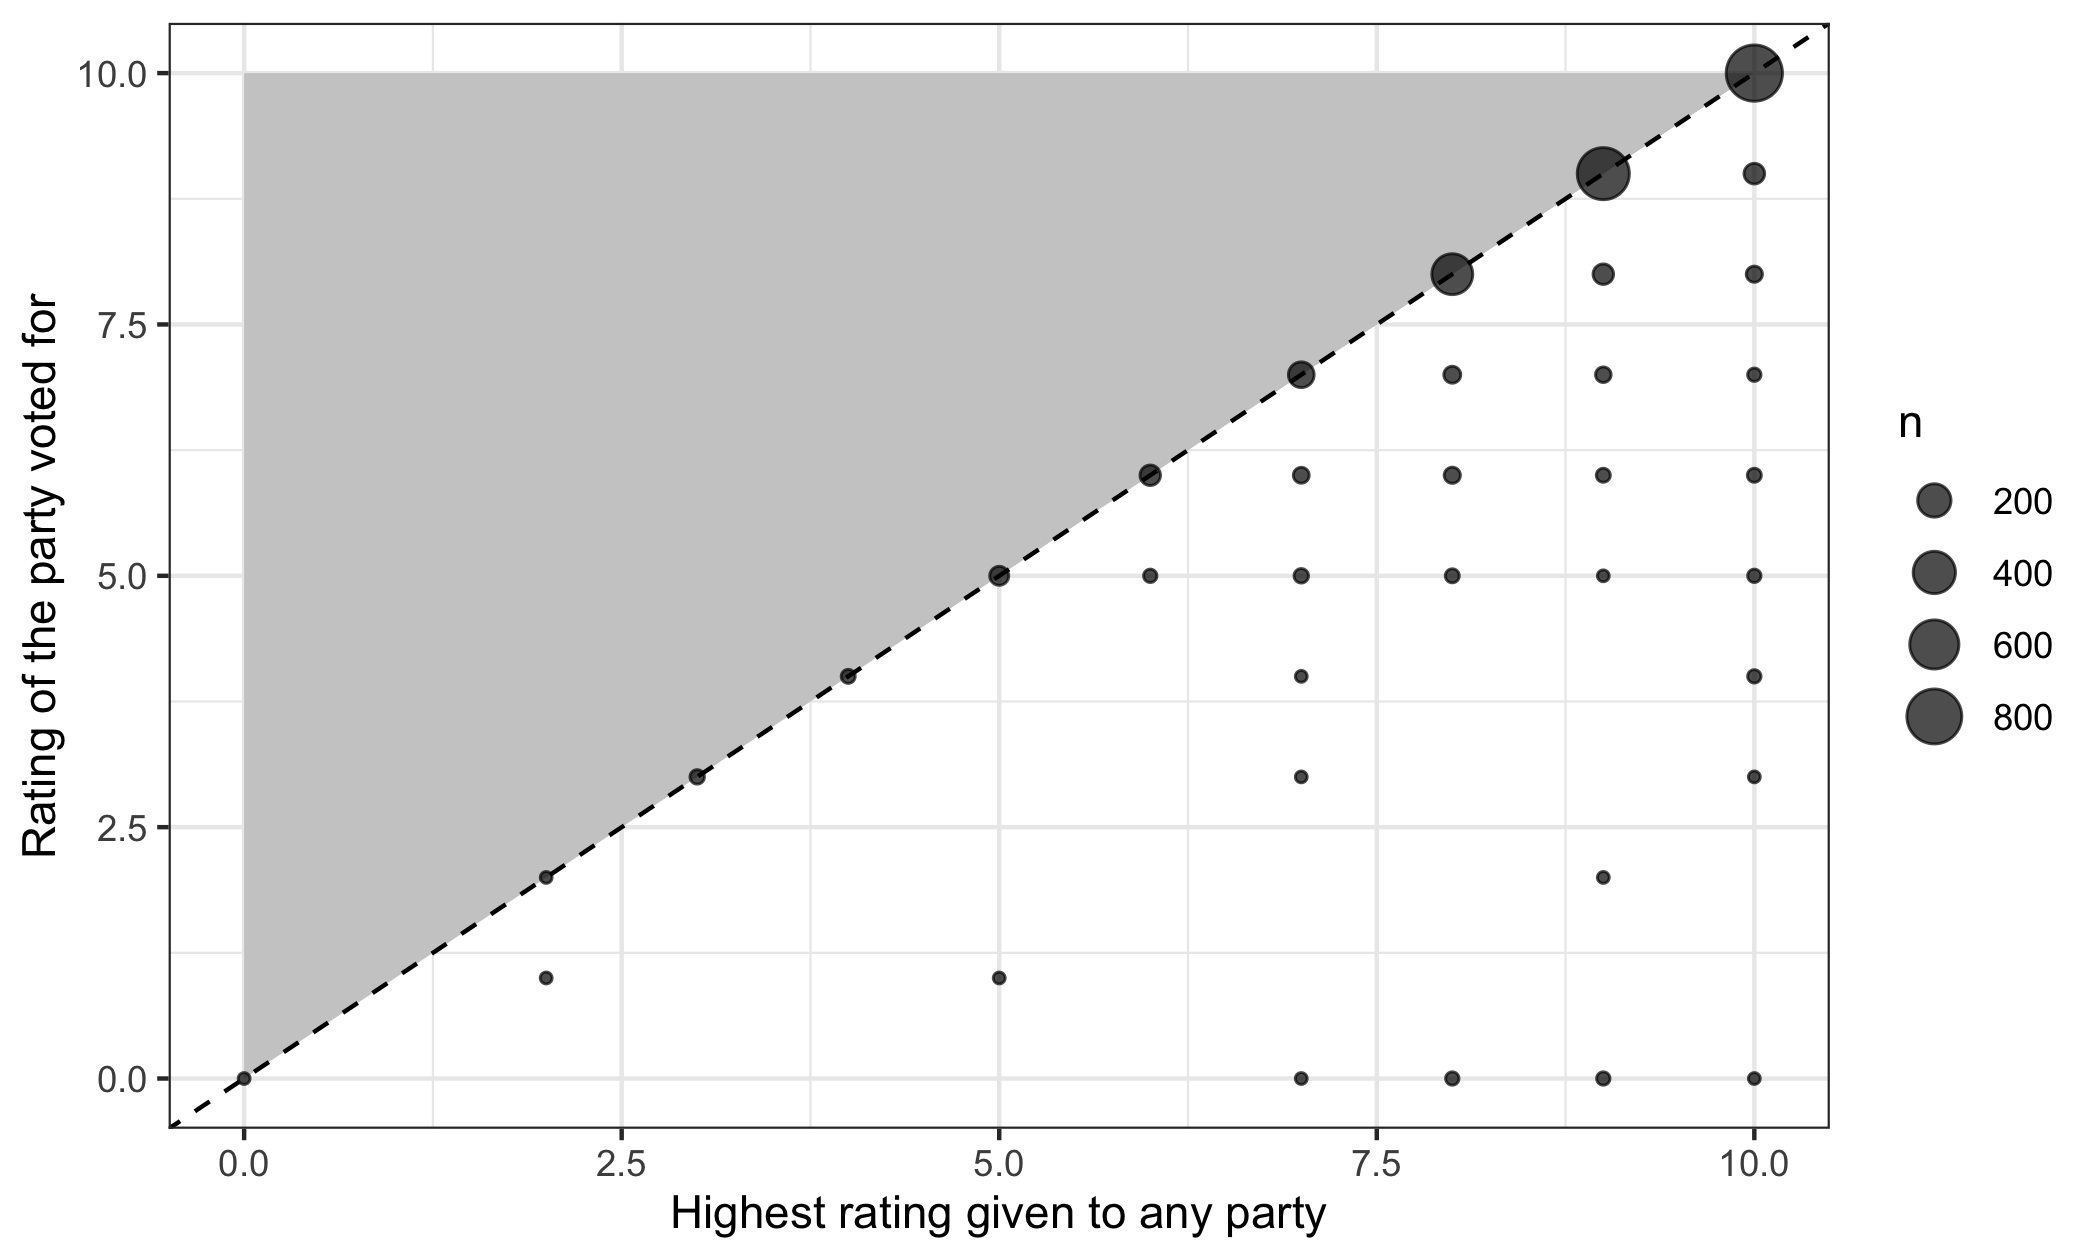
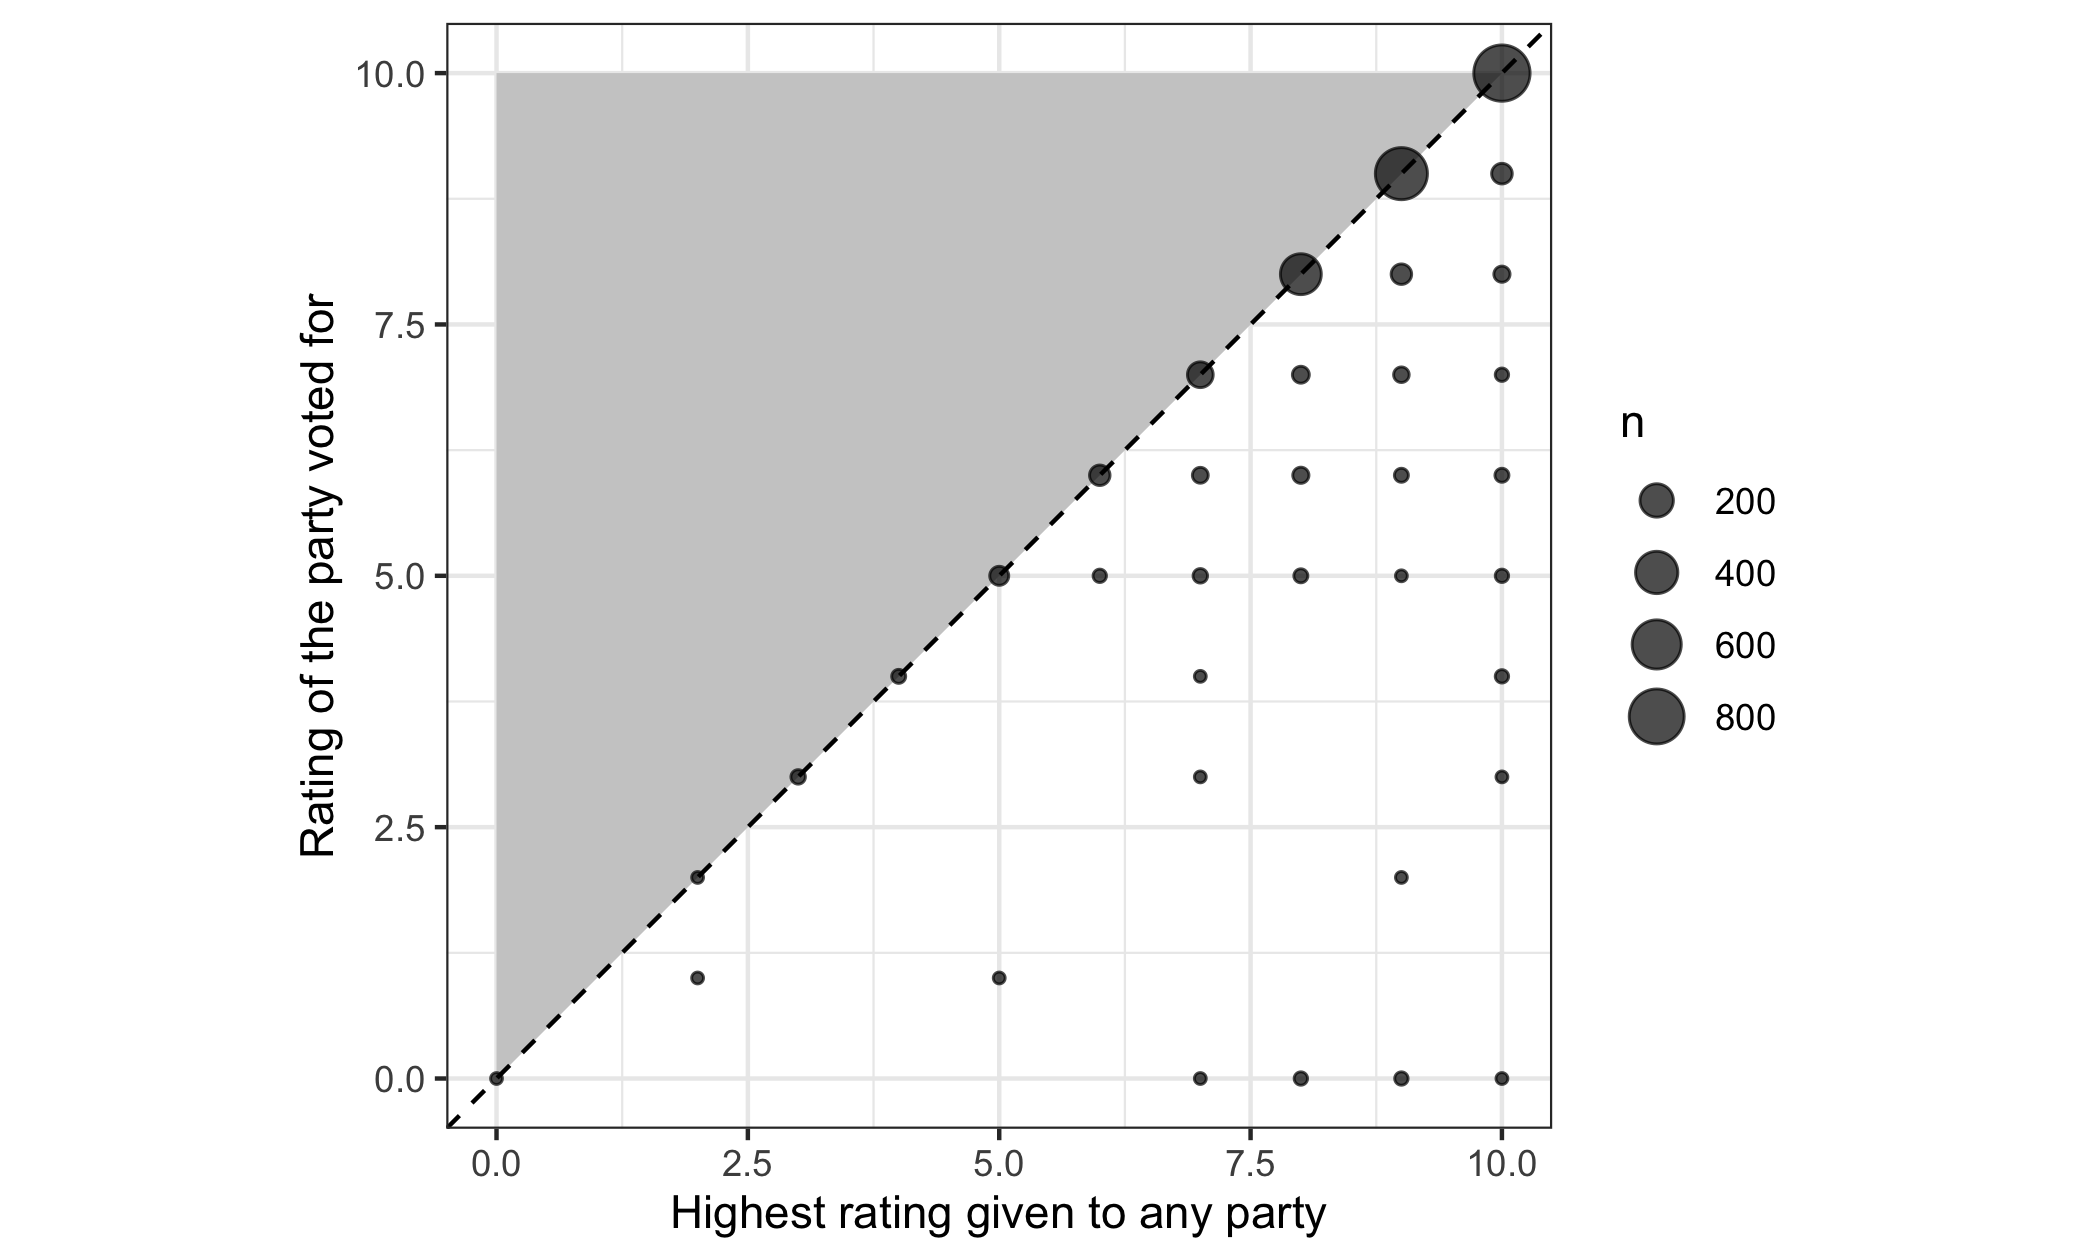
Fix the aspect ratio wherever both axes carry the same scale
The four session 5 plots with a percentage or a 0-10 rating on both axes
now use coord_fixed() instead of coord_cartesian(), so one unit is the
same physical length going up as going across. The dashed line of
equality means "equal" only at 45 degrees; a plot stretched to fill the
page tilts it and the eye reads a gap that is not there. The GDP against
life expectancy plot keeps coord_cartesian(): dollars and years are not
the same scale and there is no such line to protect. The chapter says
which to use when, the deck and the swirl lesson follow.

diff --git a/docs/05-logical-models.html b/docs/05-logical-models.html
@@ -293,7 +293,7 @@ pre > code.sourceCode > span > a:first-child::before { text-decoration: underlin
 <span id="cb1-4"><a href="#cb1-4" aria-hidden="true" tabindex="-1"></a>world <span class="ot">&lt;-</span> readr<span class="sc">::</span><span class="fu">read_csv</span>(<span class="st">"data/world.csv"</span>, <span class="at">show_col_types =</span> <span class="cn">FALSE</span>)</span></code></pre></div><button title="Copy to Clipboard" class="code-copy-button"><i class="bi"></i></button></div>
 </div>
 <p><code>world</code> holds 119 countries with a handful of indicators from the World Bank. We use it because its variables have real limits.</p>
-<p>The plots below use <code>ggplot2</code>, which was last week’s session, so the code should be readable. Everything here is the same handful of pieces: <code>ggplot()</code> and <code>aes()</code> to say what goes where, a <code>geom_</code> to draw it, <code>coord_cartesian()</code> to fix the axes, <code>labs()</code> for the labels.</p>
+<p>The plots below use <code>ggplot2</code>, which was last week’s session, so the code should be readable. Everything here is the same handful of pieces: <code>ggplot()</code> and <code>aes()</code> to say what goes where, a <code>geom_</code> to draw it, <code>coord_fixed()</code> or <code>coord_cartesian()</code> to fix the axes, <code>labs()</code> for the labels.</p>
 <section id="what-you-know-before-you-look" class="level2" data-number="5.1">
 <h2 data-number="5.1" class="anchored" data-anchor-id="what-you-know-before-you-look"><span class="header-section-number">5.1</span> What you know before you look</h2>
 <p>Take a concrete question. <strong>Across countries, how is the literacy rate among women related to the literacy rate among men?</strong></p>
@@ -316,7 +316,7 @@ pre > code.sourceCode > span > a:first-child::before { text-decoration: underlin
 <span id="cb2-10"><a href="#cb2-10" aria-hidden="true" tabindex="-1"></a>    <span class="at">y =</span> <span class="fu">c</span>(<span class="dv">0</span>, <span class="dv">100</span>),</span>
 <span id="cb2-11"><a href="#cb2-11" aria-hidden="true" tabindex="-1"></a>    <span class="at">size =</span> <span class="dv">3</span></span>
 <span id="cb2-12"><a href="#cb2-12" aria-hidden="true" tabindex="-1"></a>  ) <span class="sc">+</span></span>
-<span id="cb2-13"><a href="#cb2-13" aria-hidden="true" tabindex="-1"></a>  <span class="fu">coord_cartesian</span>(<span class="at">xlim =</span> <span class="fu">c</span>(<span class="dv">0</span>, <span class="dv">100</span>), <span class="at">ylim =</span> <span class="fu">c</span>(<span class="dv">0</span>, <span class="dv">100</span>)) <span class="sc">+</span></span>
+<span id="cb2-13"><a href="#cb2-13" aria-hidden="true" tabindex="-1"></a>  <span class="fu">coord_fixed</span>(<span class="at">xlim =</span> <span class="fu">c</span>(<span class="dv">0</span>, <span class="dv">100</span>), <span class="at">ylim =</span> <span class="fu">c</span>(<span class="dv">0</span>, <span class="dv">100</span>)) <span class="sc">+</span></span>
 <span id="cb2-14"><a href="#cb2-14" aria-hidden="true" tabindex="-1"></a>  <span class="fu">labs</span>(</span>
 <span id="cb2-15"><a href="#cb2-15" aria-hidden="true" tabindex="-1"></a>    <span class="at">x =</span> <span class="st">"Male literacy rate (%)"</span>,</span>
 <span id="cb2-16"><a href="#cb2-16" aria-hidden="true" tabindex="-1"></a>    <span class="at">y =</span> <span class="st">"Female literacy rate (%)"</span></span>
@@ -335,7 +335,8 @@ Figure&nbsp;5.1: What is known before the data: the box, the two anchor points, 
 </div>
 </div>
 </div>
-<p><code>geom_abline()</code> draws a straight line from an intercept and a slope; intercept 0 and slope 1 is the diagonal. <code>annotate("point", ...)</code> puts markers at given coordinates without needing a data frame. <code>coord_cartesian()</code> fixes what the axes show: <code>xlim</code> and <code>ylim</code> give the range for each, which here forces the full 0-to-100 square rather than letting the plot shrink to fit.</p>
+<p><code>geom_abline()</code> draws a straight line from an intercept and a slope; intercept 0 and slope 1 is the diagonal. <code>annotate("point", ...)</code> puts markers at given coordinates without needing a data frame.</p>
+<p><code>coord_fixed()</code> does two jobs. Its <code>xlim</code> and <code>ylim</code> arguments give the range each axis shows, which here forces the full 0-to-100 square rather than letting the plot shrink to fit the data. And it makes <strong>one unit the same physical length on both axes</strong> — a percentage point is as long going up as it is going across. That matters whenever the two axes carry the same scale. The dashed line means “equal” only if it runs at 45 degrees; let ggplot stretch the plot to fill the page and the same line of equality can lean steep or flat, and the eye reads a gap that is not there. When the two axes carry different scales there is no such line to protect, and <code>coord_cartesian()</code>, which sets the limits without fixing the ratio, is the right tool — it appears further down.</p>
 <p>Now the data.</p>
 <div class="cell">
 <div class="code-copy-outer-scaffold"><div class="sourceCode cell-code" id="cb3"><pre class="sourceCode r code-with-copy"><code class="sourceCode r"><span id="cb3-1"><a href="#cb3-1" aria-hidden="true" tabindex="-1"></a><span class="fu">ggplot</span>(world, <span class="fu">aes</span>(<span class="at">x =</span> lit_m, <span class="at">y =</span> lit_f)) <span class="sc">+</span></span>
@@ -345,7 +346,7 @@ Figure&nbsp;5.1: What is known before the data: the box, the two anchor points, 
 <span id="cb3-5"><a href="#cb3-5" aria-hidden="true" tabindex="-1"></a>    <span class="at">slope =</span> <span class="dv">1</span>,</span>
 <span id="cb3-6"><a href="#cb3-6" aria-hidden="true" tabindex="-1"></a>    <span class="at">linetype =</span> <span class="st">"dashed"</span></span>
 <span id="cb3-7"><a href="#cb3-7" aria-hidden="true" tabindex="-1"></a>  ) <span class="sc">+</span></span>
-<span id="cb3-8"><a href="#cb3-8" aria-hidden="true" tabindex="-1"></a>  <span class="fu">coord_cartesian</span>(<span class="at">xlim =</span> <span class="fu">c</span>(<span class="dv">0</span>, <span class="dv">100</span>), <span class="at">ylim =</span> <span class="fu">c</span>(<span class="dv">0</span>, <span class="dv">100</span>)) <span class="sc">+</span></span>
+<span id="cb3-8"><a href="#cb3-8" aria-hidden="true" tabindex="-1"></a>  <span class="fu">coord_fixed</span>(<span class="at">xlim =</span> <span class="fu">c</span>(<span class="dv">0</span>, <span class="dv">100</span>), <span class="at">ylim =</span> <span class="fu">c</span>(<span class="dv">0</span>, <span class="dv">100</span>)) <span class="sc">+</span></span>
 <span id="cb3-9"><a href="#cb3-9" aria-hidden="true" tabindex="-1"></a>  <span class="fu">labs</span>(</span>
 <span id="cb3-10"><a href="#cb3-10" aria-hidden="true" tabindex="-1"></a>    <span class="at">x =</span> <span class="st">"Male literacy rate (%)"</span>,</span>
 <span id="cb3-11"><a href="#cb3-11" aria-hidden="true" tabindex="-1"></a>    <span class="at">y =</span> <span class="st">"Female literacy rate (%)"</span></span>
@@ -423,7 +424,7 @@ Figure&nbsp;5.3: Income and life expectancy. The dashed line marks the highest l
 </div>
 </div>
 </div>
-<p><code>geom_hline()</code> draws a horizontal line at a given height on the vertical axis. <code>scale_x_continuous(labels = ...)</code> controls how the numbers on that axis are printed; <code>scales::label_comma()</code> writes them with thousands separators, and without it R writes them as <code>5e+04</code>, which is not something to put in front of a reader.</p>
+<p><code>geom_hline()</code> draws a horizontal line at a given height on the vertical axis. Dollars across and years up are not the same scale, so there is no line of equality to protect and <code>coord_cartesian()</code> is the right choice here: it sets the range shown — only <code>ylim</code> this time, so that the whole 0-to-100 span of the outcome is visible — and leaves the plot free to fill the page. <code>scale_x_continuous(labels = ...)</code> controls how the numbers on that axis are printed; <code>scales::label_comma()</code> writes them with thousands separators, and without it R writes them as <code>5e+04</code>, which is not something to put in front of a reader.</p>
 <p>The shape is there: steep at the left, flat at the right. Doubling income from 2,000 to 4,000 buys a great deal of life expectancy. Doubling it from 60,000 to 120,000 buys almost none.</p>
 <p>Note that the vertical axis runs from 0 rather than starting just below the lowest country. That is deliberate, and it is one of the rules below. Cropping the axis to the range of the data would have made the same points look dramatically more spread out, and the ceiling would have vanished off the top of the plot.</p>
 <div class="discussion">
@@ -479,7 +480,7 @@ Figure&nbsp;5.3: Income and life expectancy. The dashed line marks the highest l
 <span id="cb9-11"><a href="#cb9-11" aria-hidden="true" tabindex="-1"></a>    <span class="at">slope =</span> <span class="dv">1</span>,</span>
 <span id="cb9-12"><a href="#cb9-12" aria-hidden="true" tabindex="-1"></a>    <span class="at">linetype =</span> <span class="st">"dashed"</span></span>
 <span id="cb9-13"><a href="#cb9-13" aria-hidden="true" tabindex="-1"></a>  ) <span class="sc">+</span></span>
-<span id="cb9-14"><a href="#cb9-14" aria-hidden="true" tabindex="-1"></a>  <span class="fu">coord_cartesian</span>(<span class="at">xlim =</span> <span class="fu">c</span>(<span class="dv">0</span>, <span class="dv">10</span>), <span class="at">ylim =</span> <span class="fu">c</span>(<span class="dv">0</span>, <span class="dv">10</span>)) <span class="sc">+</span></span>
+<span id="cb9-14"><a href="#cb9-14" aria-hidden="true" tabindex="-1"></a>  <span class="fu">coord_fixed</span>(<span class="at">xlim =</span> <span class="fu">c</span>(<span class="dv">0</span>, <span class="dv">10</span>), <span class="at">ylim =</span> <span class="fu">c</span>(<span class="dv">0</span>, <span class="dv">10</span>)) <span class="sc">+</span></span>
 <span id="cb9-15"><a href="#cb9-15" aria-hidden="true" tabindex="-1"></a>  <span class="fu">labs</span>(</span>
 <span id="cb9-16"><a href="#cb9-16" aria-hidden="true" tabindex="-1"></a>    <span class="at">x =</span> <span class="st">"Highest rating given to any party"</span>,</span>
 <span id="cb9-17"><a href="#cb9-17" aria-hidden="true" tabindex="-1"></a>    <span class="at">y =</span> <span class="st">"Rating of the party voted for"</span></span>
@@ -550,30 +551,34 @@ Figure&nbsp;5.4: Rating of the party voted for against the respondent’s highes
 <td><code>coord_cartesian(xlim = , ylim = )</code></td>
 </tr>
 <tr class="even">
+<td>Same scale on both axes: one unit the same length on each</td>
+<td><code>coord_fixed(xlim = , ylim = )</code></td>
+</tr>
+<tr class="odd">
 <td>Equal intervals</td>
 <td>the default; do not use a log axis without saying so</td>
 </tr>
-<tr class="odd">
+<tr class="even">
 <td>Human-language axis labels with units</td>
 <td><code>labs(x = , y = )</code></td>
 </tr>
-<tr class="even">
+<tr class="odd">
 <td>Mark the anchor points</td>
 <td><code>annotate("point", x = , y = )</code></td>
 </tr>
-<tr class="odd">
+<tr class="even">
 <td>Shade the forbidden region</td>
 <td><code>annotate("polygon", x = , y = , fill = )</code></td>
 </tr>
-<tr class="even">
+<tr class="odd">
 <td>Draw the equality line</td>
 <td><code>geom_abline(intercept = 0, slope = 1)</code></td>
 </tr>
-<tr class="odd">
+<tr class="even">
 <td>One piece of information per element</td>
 <td>do not map a variable that is already on an axis</td>
 </tr>
-<tr class="even">
+<tr class="odd">
 <td>Nothing that carries no information</td>
 <td><code>theme(legend.position = "none")</code> when the legend is redundant</td>
 </tr>
@@ -596,7 +601,7 @@ Figure&nbsp;5.4: Rating of the party voted for against the respondent’s highes
 <span id="cb12-13"><a href="#cb12-13" aria-hidden="true" tabindex="-1"></a>    <span class="at">slope =</span> <span class="dv">1</span>,</span>
 <span id="cb12-14"><a href="#cb12-14" aria-hidden="true" tabindex="-1"></a>    <span class="at">linetype =</span> <span class="st">"dashed"</span></span>
 <span id="cb12-15"><a href="#cb12-15" aria-hidden="true" tabindex="-1"></a>  ) <span class="sc">+</span></span>
-<span id="cb12-16"><a href="#cb12-16" aria-hidden="true" tabindex="-1"></a>  <span class="fu">coord_cartesian</span>(<span class="at">xlim =</span> <span class="fu">c</span>(<span class="dv">0</span>, <span class="dv">100</span>), <span class="at">ylim =</span> <span class="fu">c</span>(<span class="dv">0</span>, <span class="dv">100</span>)) <span class="sc">+</span></span>
+<span id="cb12-16"><a href="#cb12-16" aria-hidden="true" tabindex="-1"></a>  <span class="fu">coord_fixed</span>(<span class="at">xlim =</span> <span class="fu">c</span>(<span class="dv">0</span>, <span class="dv">100</span>), <span class="at">ylim =</span> <span class="fu">c</span>(<span class="dv">0</span>, <span class="dv">100</span>)) <span class="sc">+</span></span>
 <span id="cb12-17"><a href="#cb12-17" aria-hidden="true" tabindex="-1"></a>  <span class="fu">labs</span>(</span>
 <span id="cb12-18"><a href="#cb12-18" aria-hidden="true" tabindex="-1"></a>    <span class="at">x =</span> <span class="st">"Male literacy rate (%)"</span>,</span>
 <span id="cb12-19"><a href="#cb12-19" aria-hidden="true" tabindex="-1"></a>    <span class="at">y =</span> <span class="st">"Female literacy rate (%)"</span>,</span>

diff --git a/docs/index.html b/docs/index.html
@@ -291,7 +291,7 @@ pre > code.sourceCode > span > a:first-child::before { text-decoration: underlin
     <div>
     <div class="quarto-title-meta-heading">Published</div>
     <div class="quarto-title-meta-contents">
-      <p class="date">15.09.2026</p>
+      <p class="date">21.09.2026</p>
     </div>
   </div>
   

diff --git a/REGISTER.md b/REGISTER.md
@@ -5,7 +5,7 @@ introduce, in the order it first appears.
 
 ## Functions
 
-`colnames()`, `install.packages()`, `getwd()`, `setwd()`, `install_course_url()`, `install_course_zip()`, `swirl()`, `list.files()`, `read.csv()`, `file()`, `dir.create()`, `download.file()`, `saveRDS()`, `write.csv()`, `read_sav()`, `attr()`, `zap_labels()`, `dim()`, `hist()`, `complete.cases()`, `select()`, `starts_with()`, `rename()`, `filter()`, `mutate()`, `pull()`, `arrange()`, `desc()`, `case_when()`, `if_else()`, `across()`, `everything()`, `summarise()`, `n()`, `group_by()`, `read_csv()`, `left_join()`, `Encoding()`, `set_na()`, `reverse()`, `ggplot()`, `aes()`, `geom_bar()`, `geom_histogram()`, `geom_density()`, `geom_boxplot()`, `geom_point()`, `geom_count()`, `geom_line()`, `facet_wrap()`, `labs()`, `theme_bw()`, `scale_fill_manual()`, `theme()`, `scale_fill_viridis_d()`, `ggsave()`, `geom_abline()`, `annotate()`, `coord_cartesian()`, `geom_hline()`, `scale_x_continuous()`, `label_comma()`, `reorder()`, `geom_col()`, `geom_vline()`, `sample()`, `replicate()`, `pnorm()`, `prop.table()`, `rowSums()`, `colSums()`, `outer()`, `chisq.test()`, `t.test()`, `cohens_d()`, `tibble()`, `aov()`, `cov()`, `cor()`, `cor.test()`, `rownames()`, `geom_tile()`, `scale_fill_gradient2()`, `theme_minimal()`, `cortest.bartlett()`, `KMO()`, `eigen()`, `seq_along()`, `fa.parallel()`, `fa()`, `alpha()`, `unclass()`, `geom_jitter()`, `geom_smooth()`, `lm()`, `predict()`, `coef()`, `par()`, `plot()`, `modelsummary()`, `modelplot()`, `scale()`, `predict_response()`, `relevel()`, `anova()`, `nobs()`, `geom_errorbar()`, `scale_colour_viridis_d()`, `I()`, `glm()`, `cbind()`, `confint.default()`, `pR2()`, `fitted()`, `diag()`
+`colnames()`, `install.packages()`, `getwd()`, `setwd()`, `install_course_url()`, `install_course_zip()`, `swirl()`, `list.files()`, `read.csv()`, `file()`, `dir.create()`, `download.file()`, `saveRDS()`, `write.csv()`, `read_sav()`, `attr()`, `zap_labels()`, `dim()`, `hist()`, `complete.cases()`, `select()`, `starts_with()`, `rename()`, `filter()`, `mutate()`, `pull()`, `arrange()`, `desc()`, `case_when()`, `if_else()`, `across()`, `everything()`, `summarise()`, `n()`, `group_by()`, `read_csv()`, `left_join()`, `Encoding()`, `set_na()`, `reverse()`, `ggplot()`, `aes()`, `geom_bar()`, `geom_histogram()`, `geom_density()`, `geom_boxplot()`, `geom_point()`, `geom_count()`, `geom_line()`, `facet_wrap()`, `labs()`, `theme_bw()`, `scale_fill_manual()`, `theme()`, `scale_fill_viridis_d()`, `ggsave()`, `geom_abline()`, `annotate()`, `coord_fixed()`, `geom_hline()`, `scale_x_continuous()`, `label_comma()`, `coord_cartesian()`, `reorder()`, `geom_col()`, `geom_vline()`, `sample()`, `replicate()`, `pnorm()`, `prop.table()`, `rowSums()`, `colSums()`, `outer()`, `chisq.test()`, `t.test()`, `cohens_d()`, `tibble()`, `aov()`, `cov()`, `cor()`, `cor.test()`, `rownames()`, `geom_tile()`, `scale_fill_gradient2()`, `theme_minimal()`, `cortest.bartlett()`, `KMO()`, `eigen()`, `seq_along()`, `fa.parallel()`, `fa()`, `alpha()`, `unclass()`, `geom_jitter()`, `geom_smooth()`, `lm()`, `predict()`, `coef()`, `par()`, `plot()`, `modelsummary()`, `modelplot()`, `scale()`, `predict_response()`, `relevel()`, `anova()`, `nobs()`, `geom_errorbar()`, `scale_colour_viridis_d()`, `I()`, `glm()`, `cbind()`, `confint.default()`, `pR2()`, `fitted()`, `diag()`
 
 ## Arguments
 
